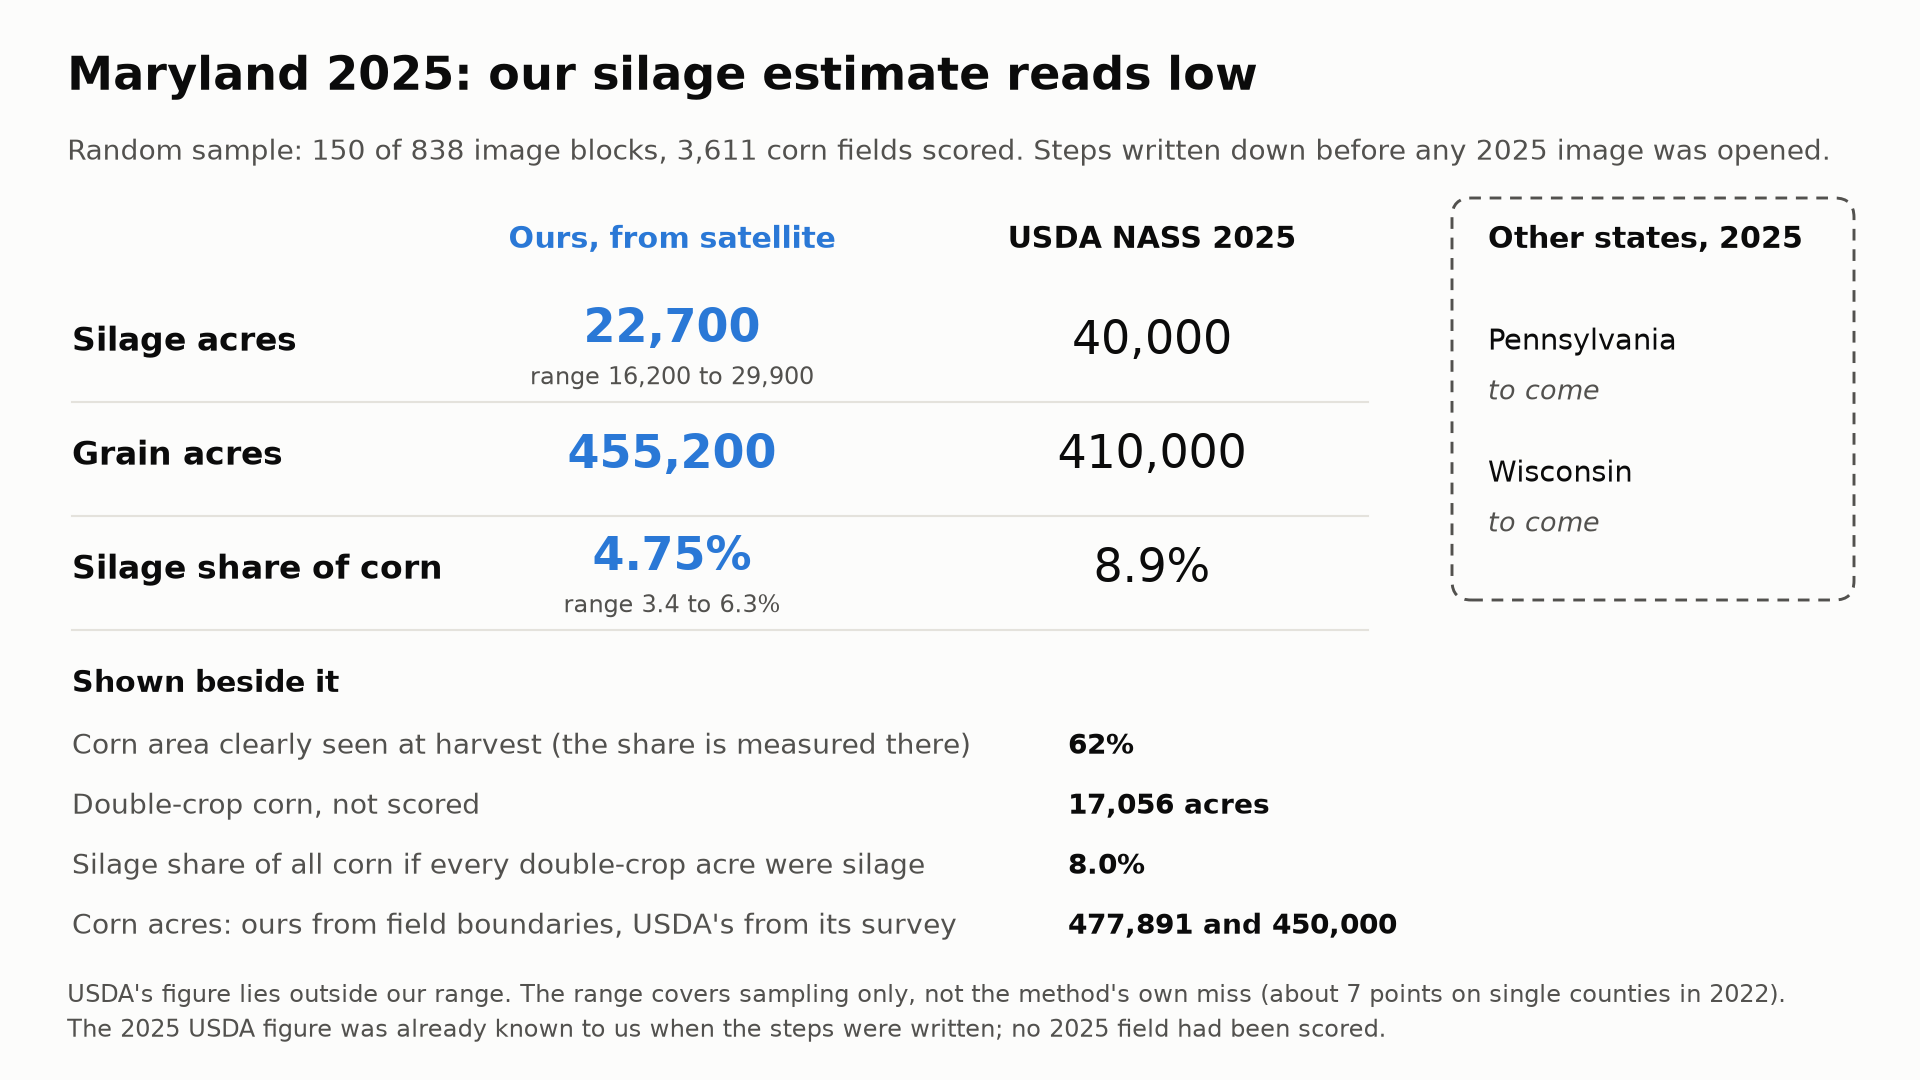
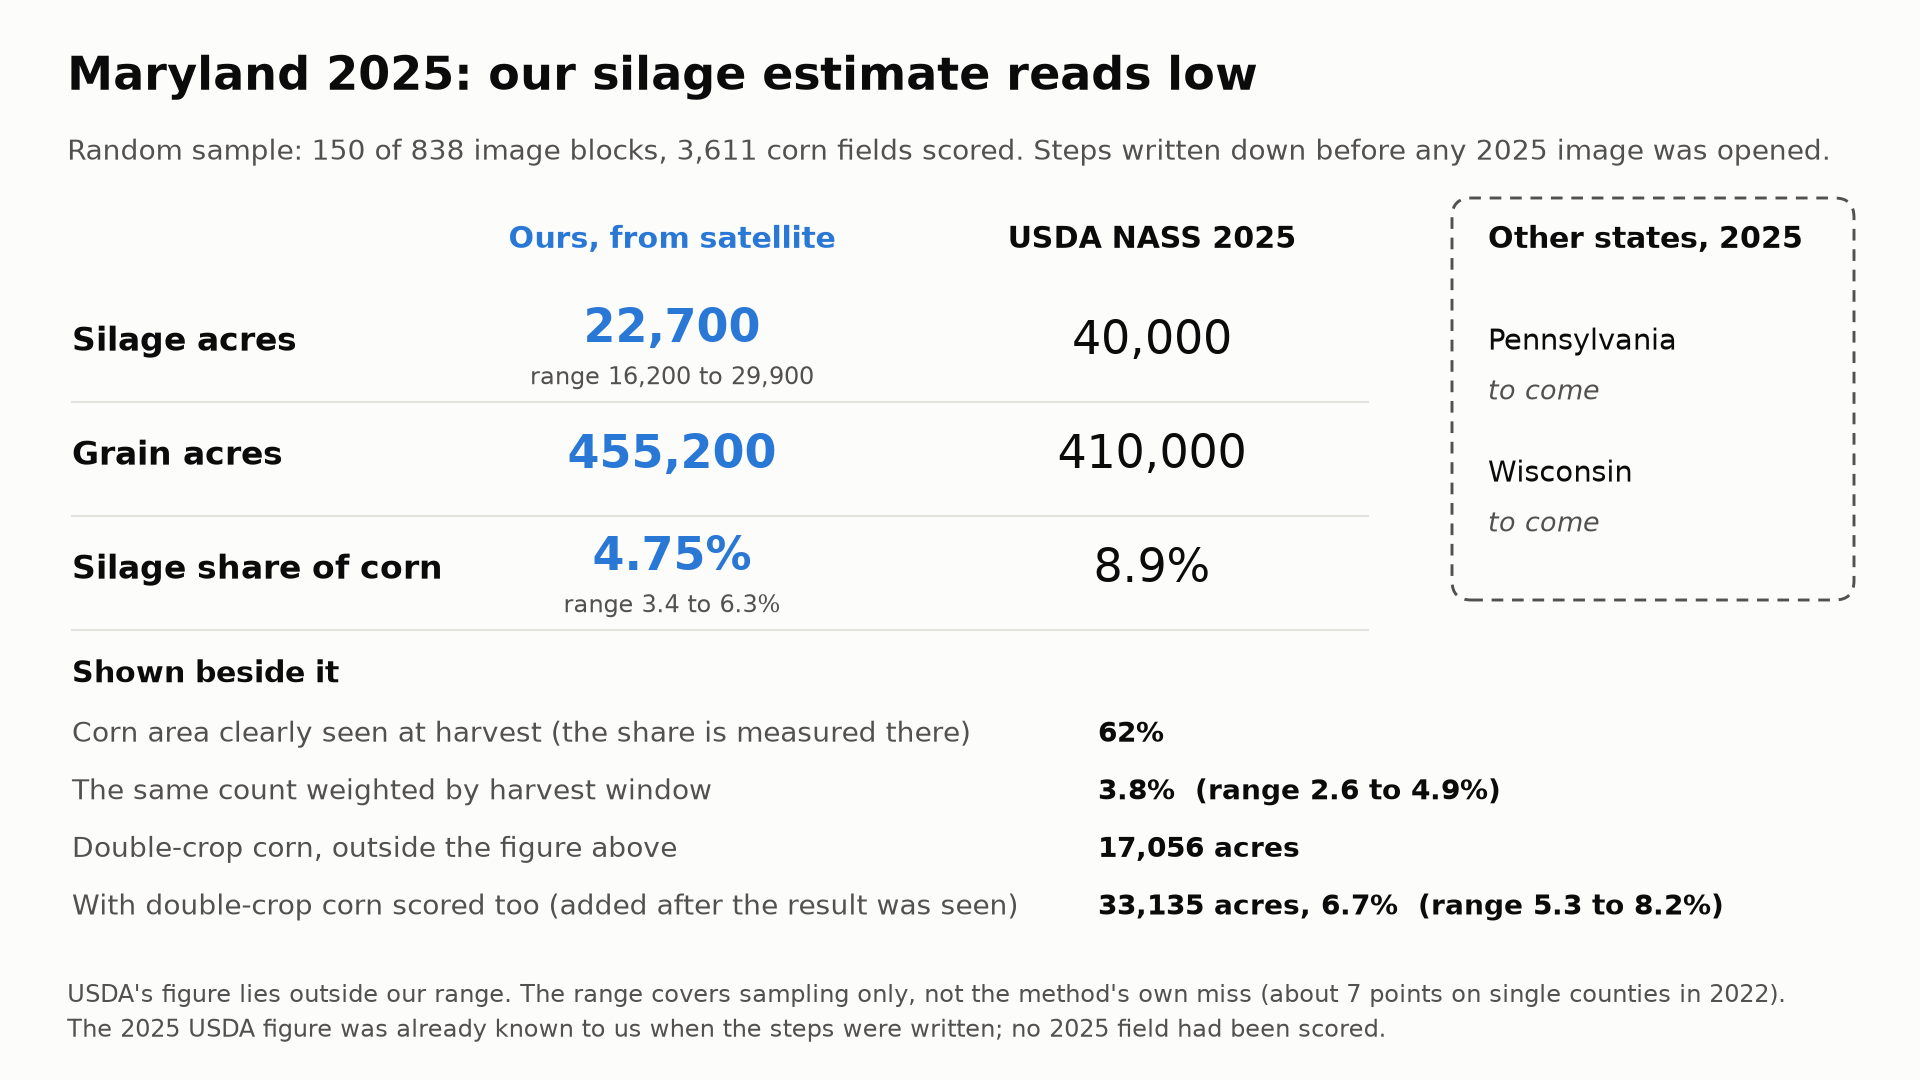
Pitch pack: harvest-window variant and the after-the-fact double-crop figure shown beside the Maryland 2025 number

Changed region(s): [[0.0312, 0.6722, 0.5312, 0.8861], [0.5625, 0.6722, 0.9062, 0.8861], [0.0312, 0.6111, 0.1875, 0.6417]]

diff --git a/docs/pitch/draw.py b/docs/pitch/draw.py
@@ -108,7 +108,7 @@ def module_diagram():
     # what is shown beside every total
     arrow(13.7, top - 0.06, 13.7, 3.88, color=INK2)
     box(10.6, 0.95, 4.9, 2.85, "Shown beside every total",
-        "- Corn not clearly seen\n   (share of the corn area)\n- Double-crop corn\n   (acres; not scored)",
+        "- Corn not clearly seen\n   (share of the corn area)\n- Double-crop corn\n   (acres, kept separate)",
         dashed=True, edge=INK2)
 
     ax.text(0.5, 0.42, "The classifier is a logistic regression trained on 8,000 labelled fields in Austria, France "
@@ -395,22 +395,25 @@ def state_2025():
                         ha="center", va="center")
         ax.text(cols[1], y, nass, fontsize=22, color=INK, ha="center", va="center")
 
-    ax.text(0.6, 3.3, "Shown beside it", fontsize=14.5, color=INK, fontweight="bold", va="center")
+    ax.text(0.6, 3.38, "Shown beside it", fontsize=14.5, color=INK, fontweight="bold", va="center")
+    with_dc = None
+    if md.get("with_double_crop_silage_acres"):
+        with_dc = (md["with_double_crop_silage_acres"], md["with_double_crop_share"], md["with_double_crop_range"])
+    window = (md["window_variant_share"], md["window_variant_range"]) if md.get("window_variant_share") else None
     beside = [
         ("Corn area clearly seen at harvest (the share is measured there)", md.get("clearly_seen_share_of_area"), lambda v: f"{v}%"),
-        ("Double-crop corn, not scored", md["double_crop_acres_not_scored"], lambda v: f"{v:,} acres"),
-        ("Silage share of all corn if every double-crop acre were silage", md.get("share_if_all_double_crop_is_silage"), lambda v: f"{v:.1f}%"),
-        ("Corn acres: ours from field boundaries, USDA's from its survey",
-         (md.get("corn_acres_boundaries"), md.get("corn_acres_nass")) if md.get("corn_acres_boundaries") else None,
-         lambda v: f"{v[0]:,} and {v[1]:,}"),
+        ("The same count weighted by harvest window", window, lambda v: f"{v[0]:g}%  (range {v[1][0]:g} to {v[1][1]:g}%)"),
+        ("Double-crop corn, outside the figure above", md["double_crop_acres_not_scored"], lambda v: f"{v:,} acres"),
+        ("With double-crop corn scored too (added after the result was seen)", with_dc,
+         lambda v: f"{v[0]:,} acres, {v[1]:g}%  (range {v[2][0]:g} to {v[2][1]:g}%)"),
     ]
     for i, (label, value, fmt) in enumerate(beside):
-        y = 2.78 - i * 0.5
+        y = 2.88 - i * 0.48
         ax.text(0.6, y, label, fontsize=13.5, color=INK2, va="center")
         if value is None:
-            to_come(ax, 8.9, 10.9, y, "to come", half=0.19, size=12)
+            to_come(ax, 9.15, 11.15, y, "to come", half=0.19, size=12)
         else:
-            ax.text(8.9, y, fmt(value), fontsize=13.5, color=INK, va="center", fontweight="bold")
+            ax.text(9.15, y, fmt(value), fontsize=13.5, color=INK, va="center", fontweight="bold")
 
     ax.add_patch(FancyBboxPatch((12.1, 4.0), 3.35, 3.35, boxstyle="round,pad=0,rounding_size=0.16", fc=BG, ec=INK2,
                                 lw=1.4, ls=(0, (4, 3))))

diff --git a/docs/pitch/pitch_numbers.py b/docs/pitch/pitch_numbers.py
@@ -123,6 +123,14 @@ STATE_2025 = {
         "points_low": 4.2,
         "corn_acres_boundaries": 477_891, "corn_acres_nass": 450_000,
         "source": "log 19:14",
+        # Shown beside, never instead. Harvest-window variant of the same count, computed in the
+        # same run: log 19:18 (Michigan under it: Branch 3.6 %, Gratiot 29.8 %, still a pass).
+        "window_variant_share": 3.8, "window_variant_range": (2.6, 4.9),
+        # Double-crop corn scored with the same model, AFTER the headline was reported, by a rule
+        # written for the states not yet opened: log 19:21, corrected 19:23. No labelled
+        # double-crop field exists, so these calls are untested.
+        "with_double_crop_silage_acres": 33_135, "with_double_crop_share": 6.7,
+        "with_double_crop_range": (5.3, 8.2), "all_corn_acres": 494_947,
     },
     "Pennsylvania": {"our_silage_share": None, "source": "to come"},
     "Wisconsin": {"our_silage_share": None, "source": "to come"},

diff --git a/docs/pitch/limits.md b/docs/pitch/limits.md
@@ -12,9 +12,13 @@ on 14 Nov 2026 (Pacific). Everything else is a file in this repository.
 - **Why it reads low is not diagnosed.** What we know: on the Maryland counties seen in 2022,
   silage is cut early and lands more often among the partly seen fields, which the count leaves
   out. In the 2025 sample 37.9 % of the partly seen area is called silage, against 4.75 % of the
-  clearly seen. Double-crop corn is not scored either, but even if all of it were silage the
-  share would be 8.0 %, still under 8.9 %. Cloud hiding whole harvest weeks is not the reason in
-  2025 (0.6 % of the corn area).
+  clearly seen. Cloud hiding whole harvest weeks is not the reason in 2025 (0.6 % of the corn
+  area).
+- **Double-crop corn closes part of the gap, after the fact.** Corn planted after a small grain
+  (17,056 acres) was outside the reported figure. Scored afterwards with the same model, it
+  brings the total to 33,135 acres of silage, 6.7 % (range 5.3 to 8.2); USDA is still above that
+  range. This was done after the result was seen, and no labelled double-crop field exists
+  anywhere, so those calls are untested. The reported figure stays 22,700.
 - **The first county method failed.** On the Maryland test whose limits were written down before
   it ran, Kent County read 21.0 % silage where the Census has 5.5 % (fail line 20.5 %), and
   Carroll read 0.0 % where the Census has 8.9 % (weak). Two causes are suspected, neither
@@ -28,9 +32,13 @@ on 14 Nov 2026 (Pacific). Everything else is a file in this repository.
   points high), and among the four Maryland counties, where the differences are smaller, it
   misses by up to 7.4 points and its order does not follow the Census (Kent reads 12.9 % at
   5.5 %, Carroll 3.6 % at 8.9 %).
-- **A harvest-window variant was tried and withdrawn.** It looked better on the four Maryland
-  counties (worst miss 3.8 points), but its result flips with how the harvest date is defined,
-  and four counties cannot settle that. It is shown beside the count, never as the headline.
+- **Two ways of counting were run together; which one is "the headline" was argued after the
+  results.** The plain count and a variant weighted by harvest window were both fixed as outputs
+  before Michigan and Maryland 2025 were opened, and the runs were made with the plain count as
+  the headline. The variant looked better on the four Maryland counties, but its result there
+  flips with how the harvest date is defined. Both give the same Michigan verdict (pass: 2.1 and
+  30.0 %, or 3.6 and 29.8 %) and both read low for Maryland 2025 (4.75 %, or 3.8 %). This pack
+  shows the plain count and puts the variant beside it.
 - **42 of 44 is a small test, not an accuracy figure.** One site, three seasons, 44 field-years;
   one field is 2.3 points. The set was scored three times, each under a rule written beforehand,
   and is now closed. The small model was named as the main model on European data, but after
@@ -43,9 +51,8 @@ on 14 Nov 2026 (Pacific). Everything else is a file in this repository.
 - **Dropping dates in training helps the big model, and it is still behind.** It was picked
   after seeing six arms, then passed its one confirmation: 39 of 44 on the labelled fields,
   against 37 without it. The small model has 42.
-- **Not all corn is in the total.** Corn planted after a small grain is outside the scored field
-  set (17,056 acres in Maryland 2025) and is shown beside the total. Fields whose harvest was
-  not seen are not judged.
+- **Not every field gets a say.** Fields whose harvest was not seen are not judged, and the
+  silage share comes from the clearly seen fields only (62 % of the corn area in Maryland 2025).
 - **The Maryland 2025 figure was not blind to its target.** The USDA figure was already known to
   us when the steps were written; no 2025 field had been scored then.
 
@@ -77,7 +84,9 @@ a model that also reads the pixels around the field (no result in this pack).
 | Range for the scored fields | Frederick 11.2 to 19.9 %; Carroll 4.8 to 7.5 % | Log 18:09; log 19:05 |
 | Corn in harvest windows with too few clearly seen fields | Queen Anne's 57.2 %, Kent 54.4 % | Log 19:05 |
 | Early windows: clearly seen fields called silage | 26 to 55 % | Log 18:49 |
-| Harvest-window variant, tried and withdrawn | worst miss 3.8 or 10.3, by date convention | Log 18:54, 19:05 |
+| Harvest-window variant on the four Maryland counties | worst miss 3.8 or 10.3, by date convention | Log 18:54, 19:05 |
+| Harvest-window variant, Michigan and Maryland 2025; how the headline was argued | 3.6 / 29.8 %, pass; 3.8 % [2.6, 4.9] | Log 19:05, 19:18 |
+| Double-crop corn scored after the fact | 33,135 silage acres of 494,947, 6.7 % [5.3, 8.2]; about 10,430 of them double-crop; no labelled double-crop field | Log 19:21, 19:23 |
 | Classifiers that saw the labelled Maryland fields | Queen Anne's 10.2 % against 4.0 % | Log 18:33 |
 | Michigan test: rule | 10 points apart, no miss above 10 points | Log 18:25, 18:37 |
 | Michigan test: result | Branch 2.1 % (Census 1.8 %), Gratiot 30.0 % (24.2 %), 27.9 points apart: pass | Log 19:11 |

diff --git a/docs/pitch/README.md b/docs/pitch/README.md
@@ -12,7 +12,8 @@ come: Pennsylvania and Wisconsin 2025 (a dashed "to come" mark in `state_2025.pn
    organisers' 44 labelled field-years right; always saying grain gets 32.
 2. Adding up is not solved: the first county method failed its test in Maryland; a plain count
    then passed a test on two Michigan counties.
-3. The state figure reads low: Maryland 2025, 22,700 acres of silage against USDA's 40,000. We
+3. The state figure reads low: Maryland 2025, 22,700 acres of silage against USDA's 40,000
+   (33,135 once double-crop corn is scored too, which was done after the result was seen). We
    show that next to the number.
 
 ## What is here
